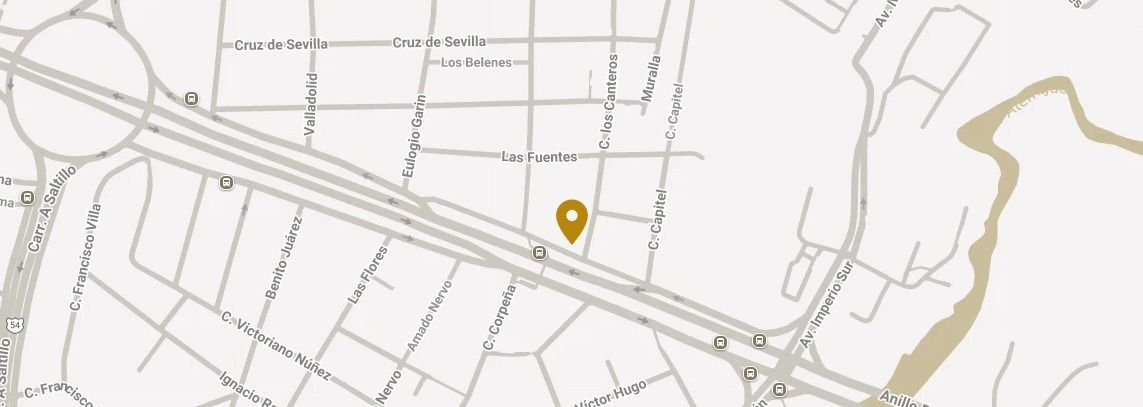
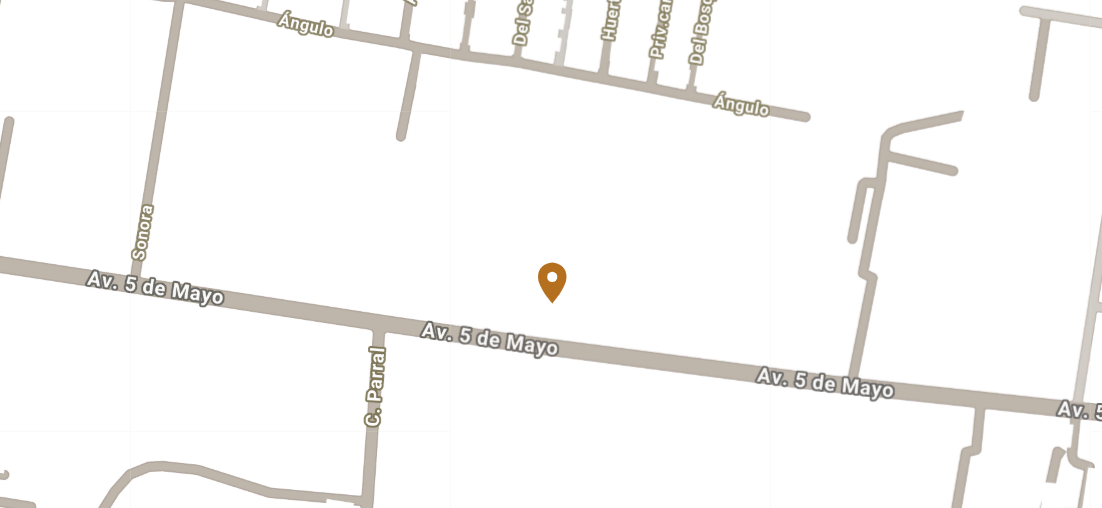
feat: cambios generales

Changed region(s): [[0.0, 0.0, 1.0, 1.0]]

diff --git a/index.html b/index.html
@@ -346,7 +346,6 @@
         <span class="ubicacion-marco-esquina esquina-tr"></span>
         <span class="ubicacion-marco-esquina esquina-bl"></span>
         <span class="ubicacion-marco-esquina esquina-br"></span>
-
         <h2 class="ubicacion-eyebrow">
           <span class="ubicacion-eyebrow-linea"></span>
           <span class="ubicacion-eyebrow-diamante">◆</span>
@@ -354,7 +353,6 @@
           <span class="ubicacion-eyebrow-diamante">◆</span>
           <span class="ubicacion-eyebrow-linea derecha"></span>
         </h2>
-
         <div class="ubicacion-lista">
           <div class="ticket">
             <div class="ticket-mapa">
@@ -369,8 +367,8 @@
                 <span class="ticket-sello-fecha">04.12.2026</span>
               </span>
               <div class="ticket-info-header">
-                <span class="ticket-tipo">Ceremonia</span>
-                <span class="ticket-hora">7:00 PM</span>
+                <span class="ticket-tipo">Ceremonia Religiosa</span>
+                <span class="ticket-hora">4:00 PM</span>
               </div>
               <h3 class="ticket-nombre">Basílica de Zapopan</h3>
               <p class="ticket-direccion">
@@ -384,7 +382,6 @@
               </div>
             </div>
           </div>
-
           <div class="ubicacion-conector">
             <svg viewBox="0 0 200 170">
               <path class="ubicacion-conector-path" d="M 30 15 C 30 95, 170 55, 170 155" fill="none"
@@ -393,10 +390,9 @@
               <circle class="ubicacion-conector-punto" cx="170" cy="155" r="4" />
             </svg>
           </div>
-
           <div class="ticket ticket-espejo">
             <div class="ticket-mapa">
-              <img src="img/Ubicacion_Salon.png" alt="Mapa Hacienda La Magdalena" class="ticket-mapa-img" />
+              <img src="img/Ubicacion_Salon.png" alt="Mapa Los Obeliscos Eventos" class="ticket-mapa-img" />
               <span class="ticket-numero">02</span>
             </div>
             <div class="ticket-muesca ticket-muesca-arriba"></div>
@@ -407,17 +403,17 @@
                 <span class="ticket-sello-fecha">04.12.2026</span>
               </span>
               <div class="ticket-info-header">
-                <span class="ticket-tipo">Recepción</span>
-                <span class="ticket-hora">9:00 PM</span>
+                <span class="ticket-tipo">Ceremonia Holística · Recepción</span>
+                <span class="ticket-hora">6:00 PM</span>
               </div>
-              <h3 class="ticket-nombre">Hacienda La Magdalena</h3>
+              <h3 class="ticket-nombre">Los Obeliscos Eventos</h3>
               <p class="ticket-direccion">
-                Km 1.7 Carretera Tesistán-Tolotlán, Zapopan, Jalisco
+                Av. 5 de Mayo 433, San Juan de Ocotán, 45019 Zapopan, Jalisco
               </p>
               <div class="ticket-botones">
-                <a href="https://www.google.com/maps/search/?api=1&query=Hacienda+La+Magdalena+Zapopan" target="_blank"
+                <a href="https://www.google.com/maps/search/?api=1&query=Los+Obeliscos+Eventos+Zapopan" target="_blank"
                   class="ticket-btn">Google Maps</a>
-                <a href="https://waze.com/ul?q=Hacienda%20La%20Magdalena%20Zapopan&navigate=yes" target="_blank"
+                <a href="https://waze.com/ul?q=Los%20Obeliscos%20Eventos%20Zapopan&navigate=yes" target="_blank"
                   class="ticket-btn">Waze</a>
               </div>
             </div>
@@ -601,7 +597,7 @@
         más, aquí tienes algunas opciones
       </p>
       <div class="regalos-grid">
-        <a href="#" target="_blank" class="regalo-card">
+        <a href="#" target="_blank" rel="noopener noreferrer" class="regalo-card">
           <span class="regalo-numero-fondo">01</span>
           <span class="regalo-icono-circulo">
             <svg class="regalo-icono" viewBox="0 0 40 40" fill="none">
@@ -616,7 +612,8 @@
             <span class="regalo-btn">Ver mesa <span class="regalo-btn-flecha">↗</span></span>
           </span>
         </a>
-        <a href="#" target="_blank" class="regalo-card">
+        <a href="https://www.amazon.com.mx/wedding/share/dianaymarco" target="_blank" rel="noopener noreferrer"
+          class="regalo-card">
           <span class="regalo-numero-fondo">02</span>
           <span class="regalo-icono-circulo">
             <svg class="regalo-icono" viewBox="0 0 40 40" fill="none">

diff --git a/css/countdown.css b/css/countdown.css
@@ -51,13 +51,13 @@
   flex-direction: column;
   align-items: center;
   text-align: center;
-  gap: 1.4rem;
+  gap: 1.2rem;
   width: 100%;
 }
 
 .countdown-eyebrow {
   font-family: var(--font-script);
-  font-size: clamp(2.4rem, 7vw, 4rem);
+  font-size: clamp(2rem, 5.5vw, 3.2rem);
   color: var(--color-blanco);
   text-shadow: 0 2px 12px rgba(0, 0, 0, 0.25);
   width: 100%;
@@ -65,7 +65,7 @@
   display: flex;
   align-items: center;
   justify-content: center;
-  gap: 1.5rem;
+  gap: 1.2rem;
 }
 
 .eyebrow-rama {
@@ -103,14 +103,14 @@
 
 .countdown-fecha {
   font-family: var(--font-display);
-  font-size: clamp(1rem, 2.5vw, 1.4rem);
+  font-size: clamp(0.9rem, 2vw, 1.2rem);
   font-weight: 700;
   color: var(--color-blanco);
   letter-spacing: 0.3em;
   text-transform: uppercase;
   opacity: 0;
   position: relative;
-  padding-bottom: 1.1rem;
+  padding-bottom: 1rem;
 }
 
 .countdown-fecha::after {
@@ -139,8 +139,8 @@
   display: flex;
   align-items: center;
   justify-content: center;
-  gap: clamp(0.5rem, 2vw, 2rem);
-  margin-top: 0.8rem;
+  gap: clamp(0.4rem, 1.5vw, 1.5rem);
+  margin-top: 0.6rem;
   width: 100%;
 }
 
@@ -148,14 +148,14 @@
   display: flex;
   flex-direction: column;
   align-items: center;
-  gap: 0.8rem;
+  gap: 0.6rem;
   opacity: 0;
   flex-shrink: 0;
 }
 
 .countdown-marco {
-  width: clamp(80px, 13vw, 160px);
-  height: clamp(80px, 13vw, 160px);
+  width: clamp(64px, 10vw, 120px);
+  height: clamp(64px, 10vw, 120px);
   border: 2px solid var(--color-acento);
   border-radius: 12px;
   display: flex;
@@ -177,7 +177,7 @@
 
 .countdown-marco span {
   font-family: var(--font-display);
-  font-size: clamp(2rem, 7vw, 5rem);
+  font-size: clamp(1.6rem, 5vw, 3.5rem);
   font-weight: 700;
   color: var(--color-texto-oscuro);
   line-height: 1;
@@ -195,7 +195,7 @@
 
 .countdown-bloque label {
   font-family: var(--font-body);
-  font-size: clamp(0.65rem, 1.3vw, 0.9rem);
+  font-size: clamp(0.6rem, 1.1vw, 0.8rem);
   color: var(--color-texto-claro);
   letter-spacing: 0.2em;
   text-transform: uppercase;
@@ -205,10 +205,10 @@
 
 .countdown-separador {
   font-family: var(--font-display);
-  font-size: clamp(1.5rem, 5vw, 3.5rem);
+  font-size: clamp(1.2rem, 4vw, 2.6rem);
   color: var(--color-acento);
   line-height: 1;
-  margin-bottom: clamp(1.2rem, 3vw, 2.2rem);
+  margin-bottom: clamp(1rem, 2.5vw, 1.8rem);
   opacity: 0;
   animation: cdPulse 1.6s ease-in-out infinite;
   flex-shrink: 0;
@@ -367,6 +367,32 @@
   .countdown-calendario { display: flex; }
   .countdown-conector { display: flex; }
   .countdown-text { width: auto; }
+}
+
+@media (max-width: 480px) {
+  .countdown-timer {
+    gap: 0.35rem;
+  }
+
+  .countdown-marco {
+    width: clamp(54px, 17vw, 74px);
+    height: clamp(54px, 17vw, 74px);
+    border-radius: 8px;
+  }
+
+  .countdown-marco span {
+    font-size: clamp(1.3rem, 7vw, 2rem);
+  }
+
+  .countdown-bloque label {
+    font-size: 0.55rem;
+    letter-spacing: 0.12em;
+  }
+
+  .countdown-separador {
+    font-size: clamp(1rem, 4vw, 1.4rem);
+    margin-bottom: 0.9rem;
+  }
 }
 
 @media (max-width: 420px) {

diff --git a/css/hero.css b/css/hero.css
@@ -3,8 +3,9 @@
   width: 100%;
   height: 100vh;
   display: flex;
-  align-items: center;
+  align-items: flex-end;
   justify-content: center;
+  padding-bottom: 8vh;
   overflow: hidden;
   background: #2c2c2c;
 }
@@ -48,13 +49,13 @@
   z-index: 4;
   text-align: center;
   padding: 2rem;
-  max-width: 1920px;
+  max-width: 900px;
   width: 100%;
 }
 
 .hero-script {
   font-family: var(--font-script);
-  font-size: clamp(4rem, 16vw, 6rem);
+  font-size: clamp(2.5rem, 8vw, 4.5rem);
   color: var(--color-blanco);
   text-shadow: 0 2px 16px rgba(0, 0, 0, 0.5);
   margin-bottom: 0.5rem;
@@ -63,11 +64,11 @@
 
 .hero-nombres {
   font-family: var(--font-display);
-  font-size: clamp(6rem, 15vw, 10rem);
-  font-weight: 900;
+  font-size: clamp(3rem, 9vw, 6rem);
+  font-weight: 700;
   color: var(--color-blanco);
-  letter-spacing: 0.04em;
-  line-height: 1;
+  letter-spacing: 0.03em;
+  line-height: 1.1;
   margin-bottom: 1.5rem;
   opacity: 0;
   text-shadow: 0 4px 24px rgba(0, 0, 0, 0.4);
@@ -75,34 +76,45 @@
 
 .hero-frase {
   font-family: var(--font-body);
-  font-size: clamp(1.5rem, 3vw, 2.5rem);
+  font-size: clamp(0.85rem, 1.8vw, 1.25rem);
   color: var(--color-blanco);
-  letter-spacing: 0.25em;
+  letter-spacing: 0.2em;
   text-transform: uppercase;
+  line-height: 1.6;
   opacity: 0;
-  max-width: 800px;
-  white-space: nowrap;
+  max-width: 600px;
+  margin: 0 auto;
+  white-space: normal;
 }
 
 .hero-scroll {
   color: var(--color-blanco);
   font-size: 1.5rem;
   opacity: 0;
+  margin-top: 1.5rem;
 }
 
 @media (max-width: 768px) {
+  #hero {
+    padding-bottom: 12vh;
+  }
+
   .hero-imagen-wrapper {
     background-image: url("../img/hero_movil.png");
     background-position: center center;
   }
 
   .hero-nombres {
-    font-size: clamp(5rem, 18vw, 7rem);
+    font-size: clamp(2.4rem, 11vw, 3.5rem);
+  }
+
+  .hero-script {
+    font-size: clamp(1.8rem, 9vw, 2.8rem);
   }
 
   .hero-frase {
-    white-space: normal;
-    letter-spacing: 0.15em;
-    font-size: 0.75rem;
+    letter-spacing: 0.12em;
+    font-size: 0.7rem;
+    max-width: 320px;
   }
 }

diff --git a/js/sobre.js b/js/sobre.js
@@ -62,6 +62,7 @@ function initSobre() {
                         countdown.classList.remove('hidden');
                         initCountdown();
                     }
+                    ScrollTrigger.refresh();
                 }
             });
     });

diff --git a/css/timeline.css b/css/timeline.css
@@ -5,6 +5,7 @@
   padding: 100px 24px;
   overflow: hidden;
   pointer-events: none;
+  opacity: 0;
 }
 
 .timeline-texture {
